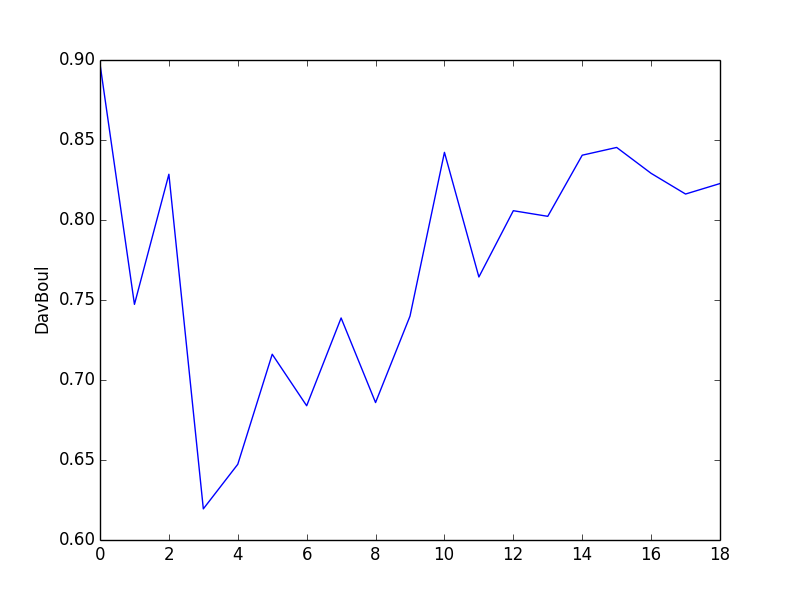
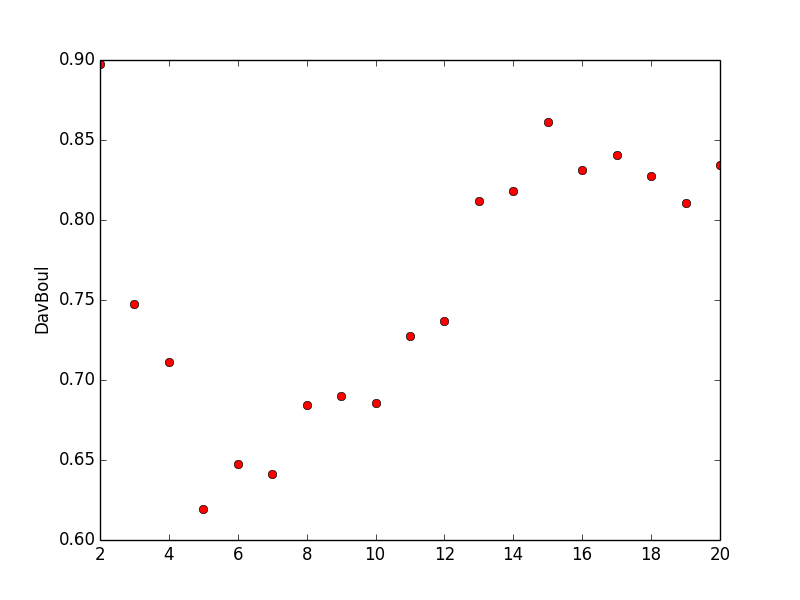
Fixed plots

diff --git a/SPBU/SP/task2/main.py b/SPBU/SP/task2/main.py
@@ -137,23 +137,27 @@ if __name__ == "__main__":
     print("Rand: " + str(Rand))
     print("FowMal: " + str(FowMal))
 
-    plt.plot(DavBoul)
+    x_range = range(min_k, max_k + 1)
+
+    plt.plot(x_range, DavBoul, 'ro')
     plt.ylabel('DavBoul')
     plt.show()
 
-    plt.plot(CalHar)
+    plt.plot(x_range, CalHar, 'ro')
     plt.ylabel('CalHar')
     plt.show()
 
-    plt.plot(Rand)
+    plt.plot(x_range, Rand, 'ro')
     plt.ylabel('Rand')
     plt.show()
 
-    plt.plot(FowMal)
+    plt.plot(x_range, FowMal, 'ro')
     plt.ylabel('FowMal')
     plt.show()
 
-    for arr in [DavBoul, CalHar]:
+    delta_CalHar = [(CalHar[k + 1] - CalHar[k]) - (CalHar[k] - CalHar[k - 1]) for k in xrange(min_k + 1, max_k)]
+
+    for arr in [DavBoul, delta_CalHar]:
         min = (0, float("inf"))
         for i, x in enumerate(arr):
             if x < min[1]:
